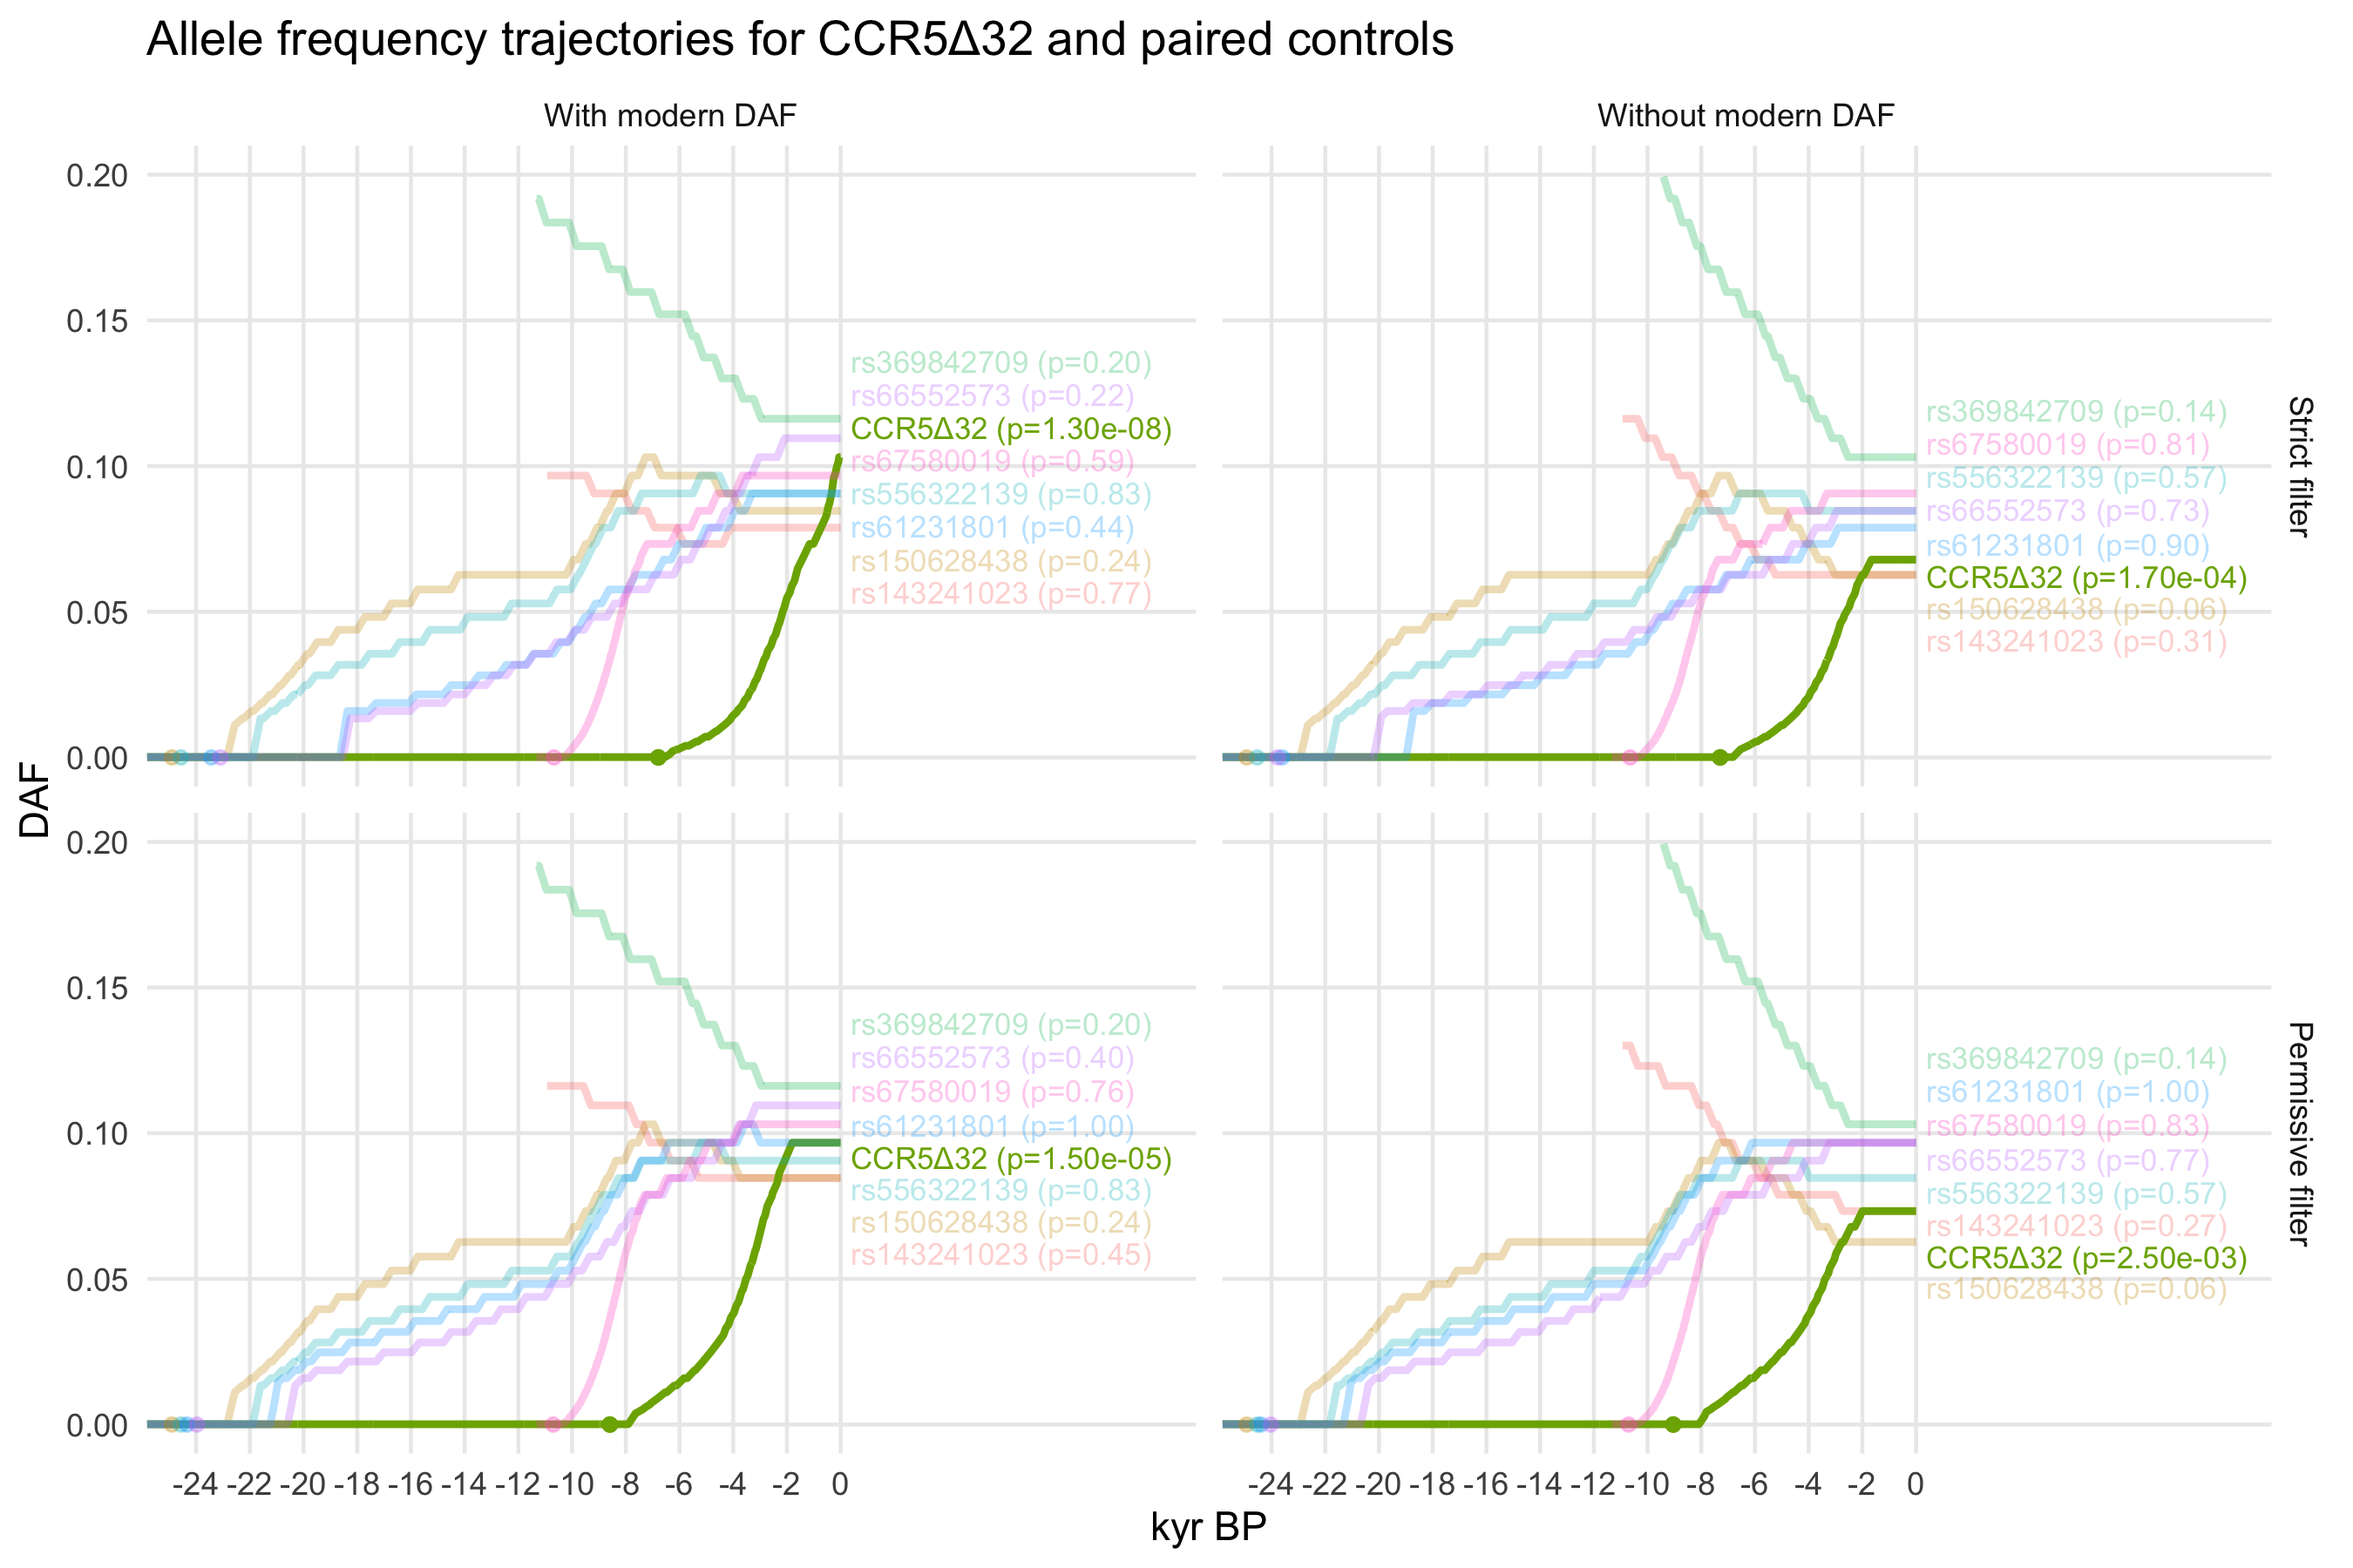
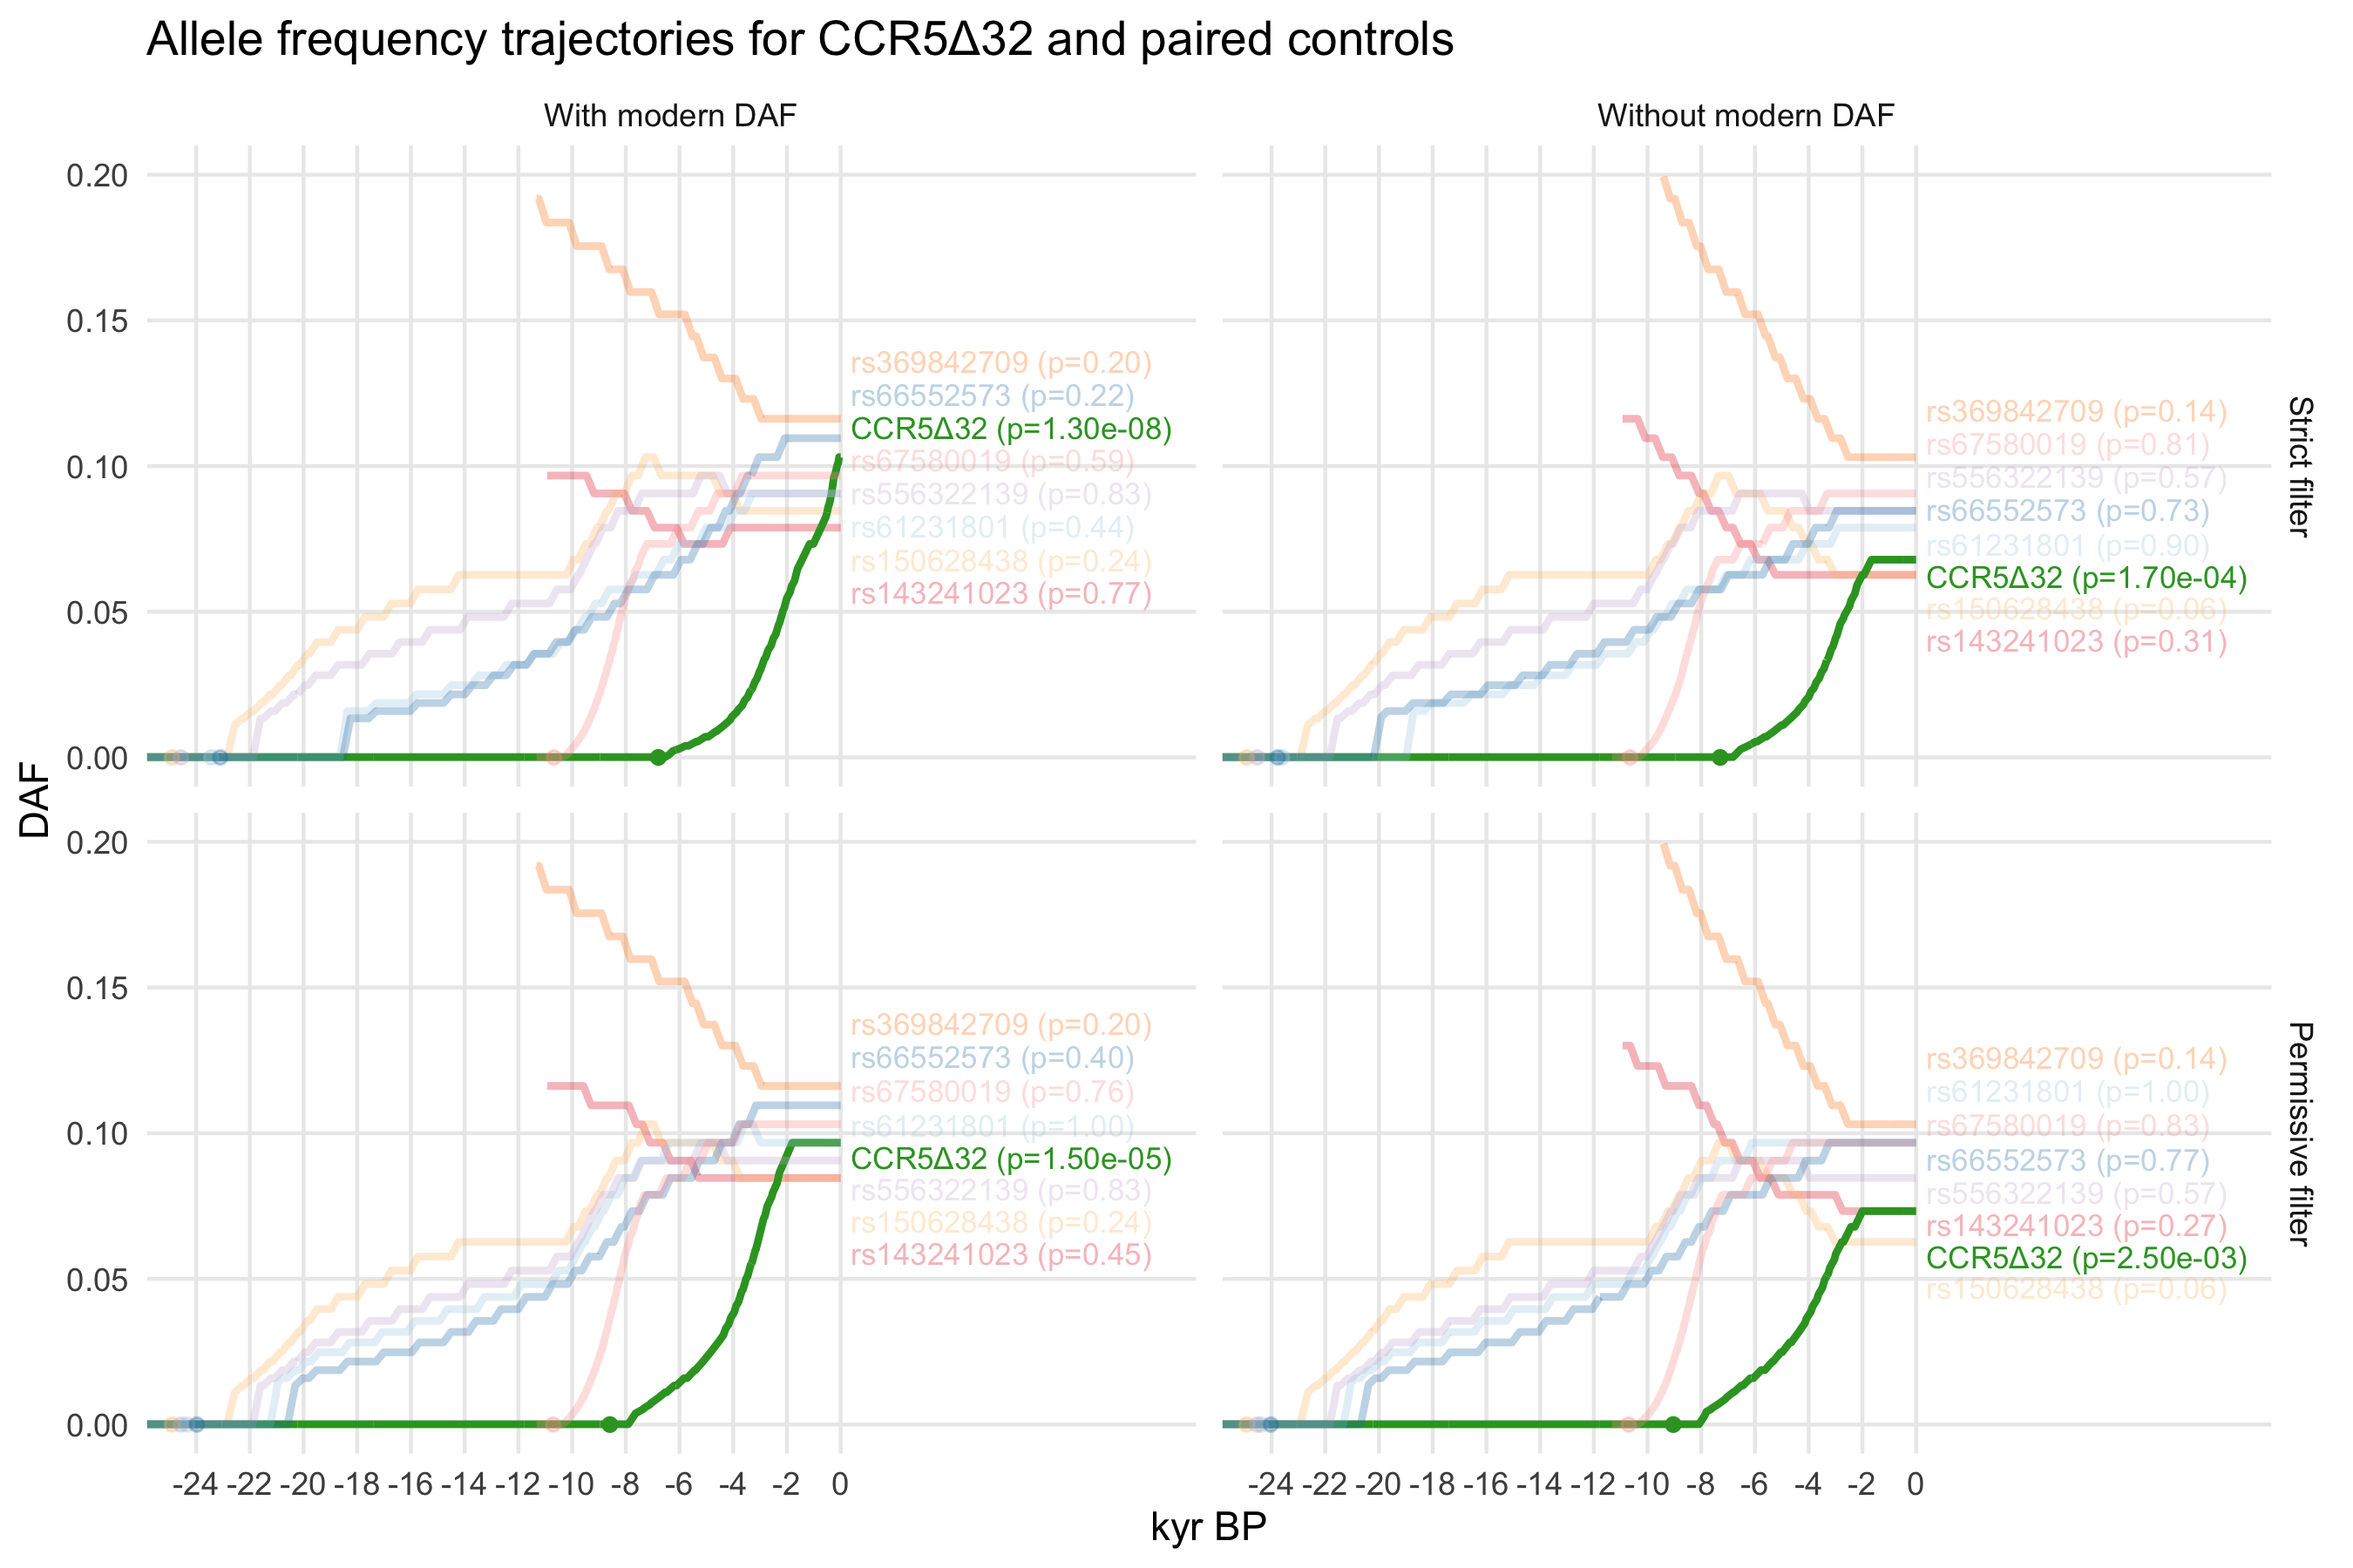
set manual line colours

diff --git a/README.md b/README.md
@@ -1,4 +1,4 @@
-# Allele frequency trajectory of the CCR5delta32 mutation
+# Allele frequency trajectory of the CCR5Δ32 deletion
 This repository contains code for the `CLUES` selection analysis from 
 [Tracing the evolutionary path of the CCR5delta32 deletion via ancient and modern genomes](https://doi.org/10.1101/2023.06.15.23290026).
 
